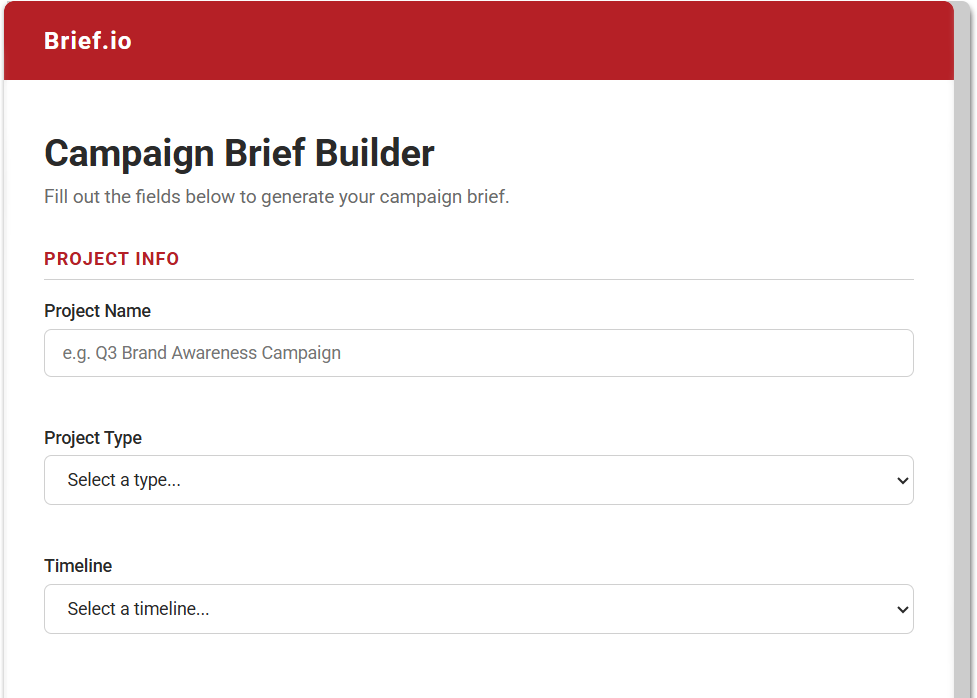
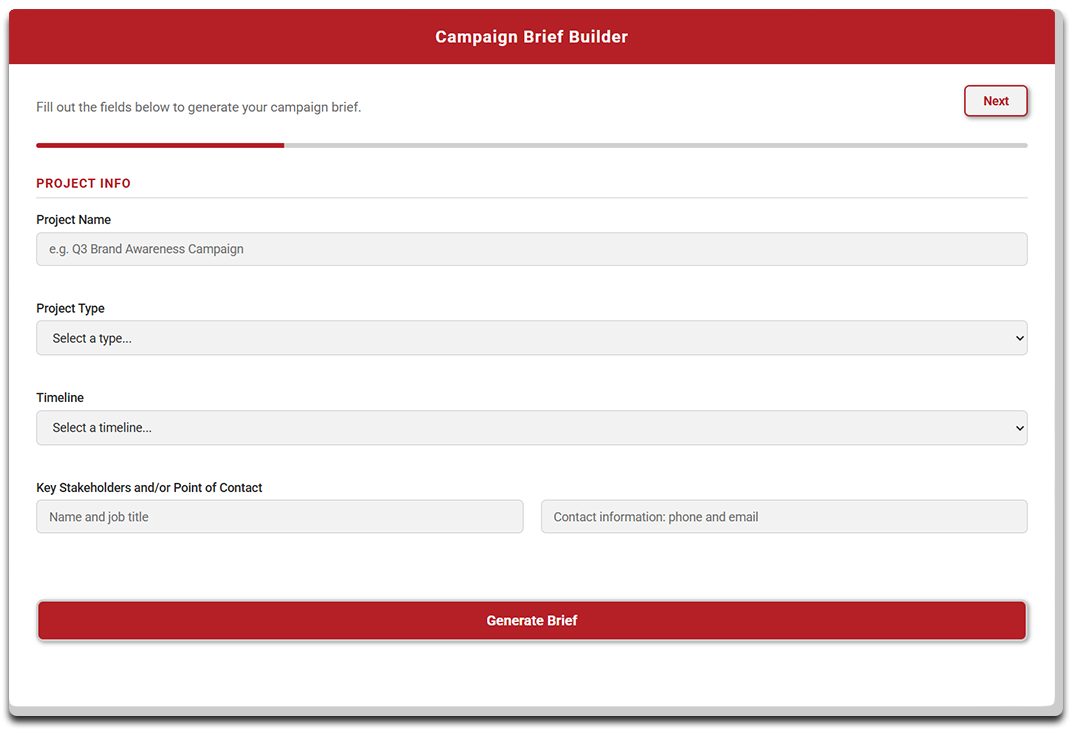
FeatureBlock on Home.jsx had product shots of the first iteration brief builder. I replaced them with images of the newer brief builder version.

Changed region(s): [[0.0, 0.0, 1.0, 1.0], [0.522, 0.692, 0.7062, 0.7221]]

diff --git a/frontend/src/components/FeatureBlock/FeatureBlock.css b/frontend/src/components/FeatureBlock/FeatureBlock.css
@@ -6,8 +6,8 @@ This is the CSS for that component. */
 
     display: flex;
     align-items: center;
-    margin-left: 400px;
-    margin-right: 400px;
+    margin-left: 365px;
+    margin-right: 365px;
     margin-top: 150px;
     gap: 60px;
 
@@ -23,6 +23,7 @@ This is the CSS for that component. */
 
     width: 700px;
     display: block;
+    margin: auto;
     
 }
 
